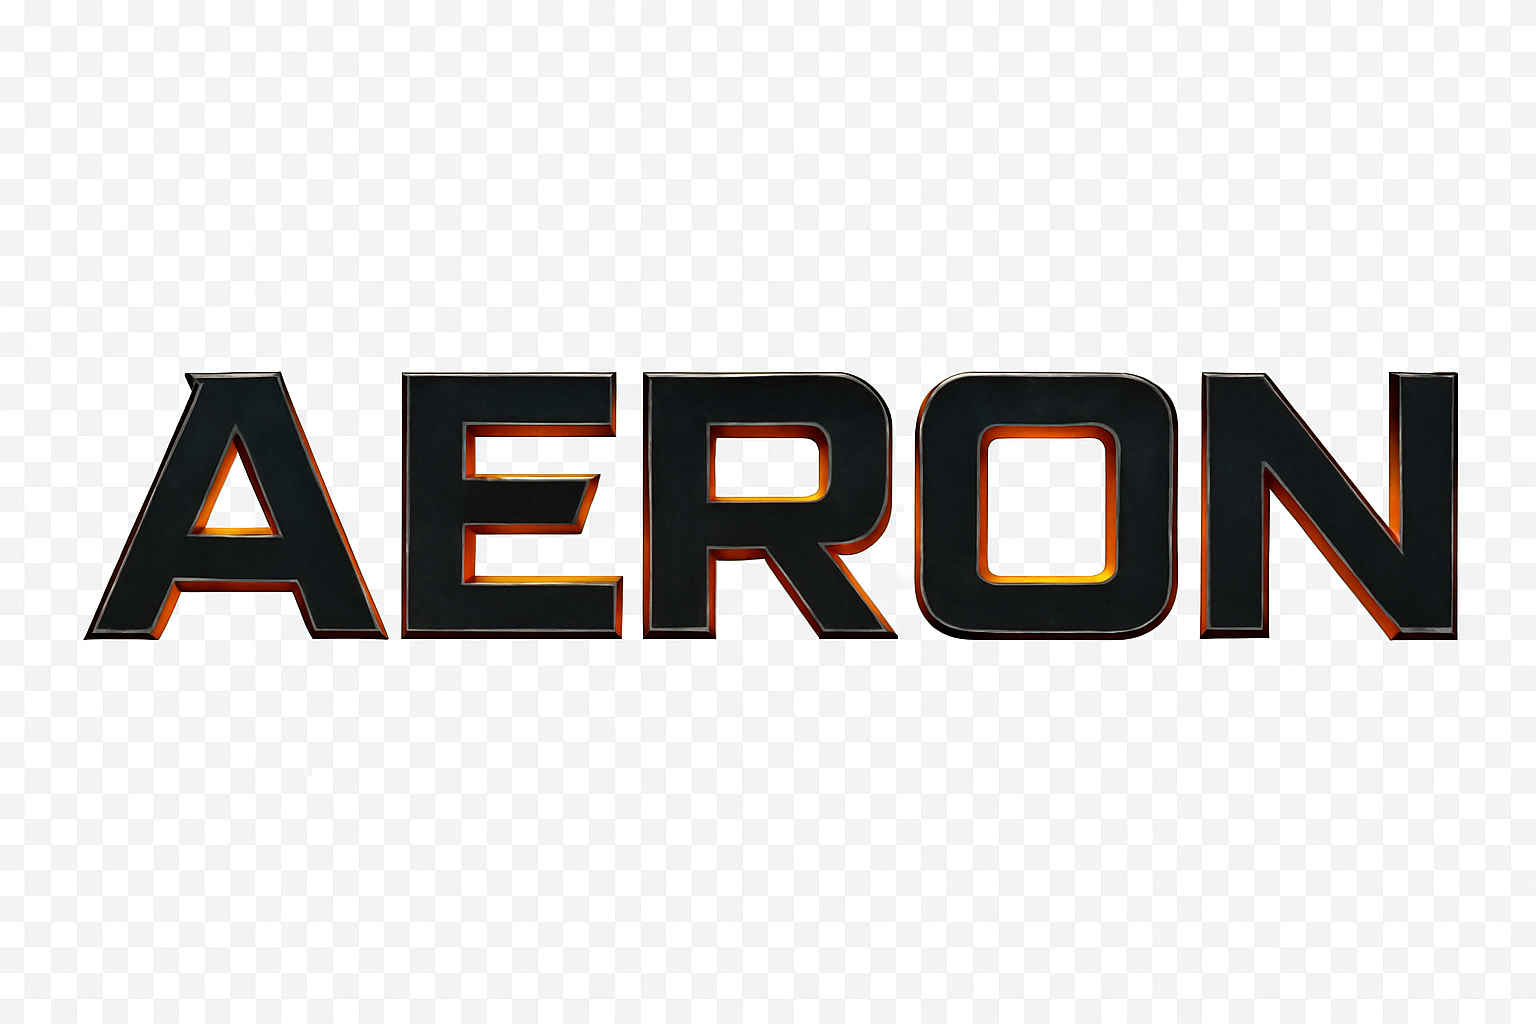
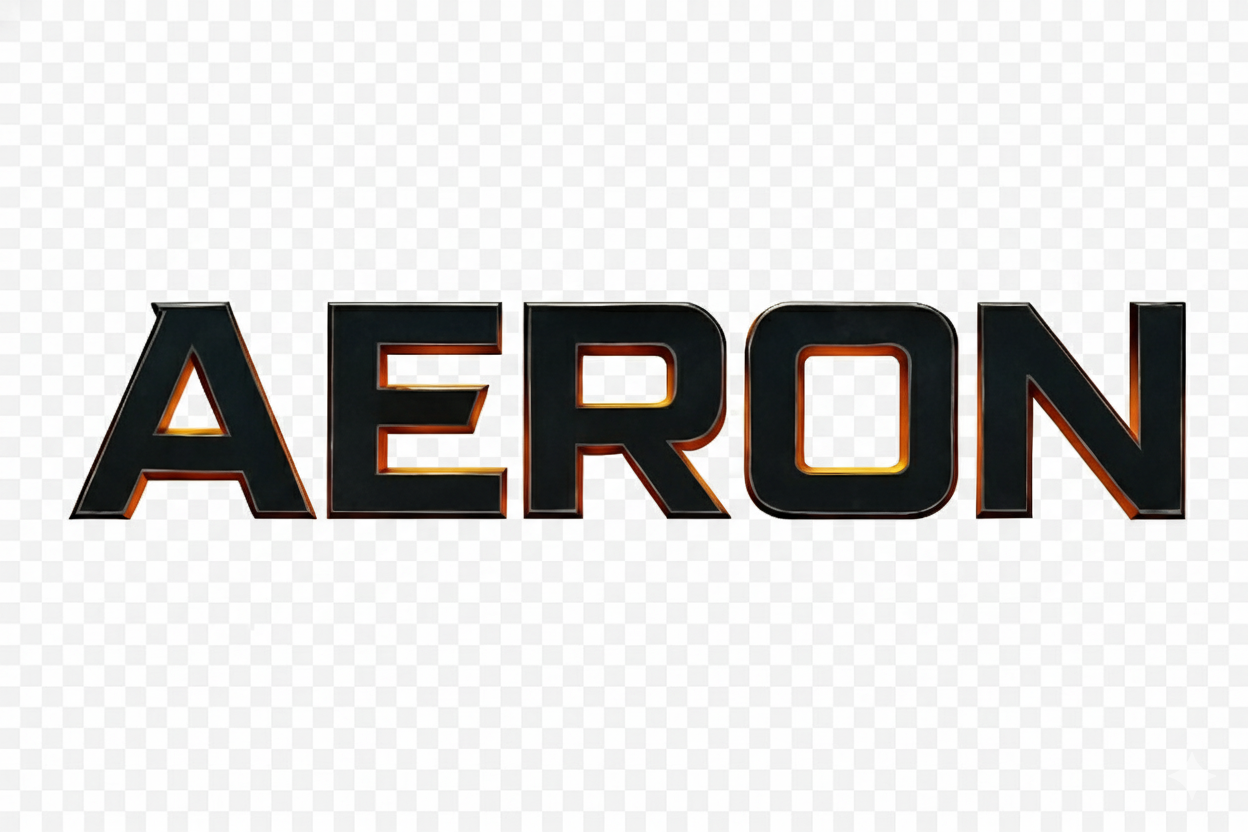
Update: Complete visual identity with Teko font and text shadows

diff --git a/index.html b/index.html
@@ -19,7 +19,7 @@
     <title>AERON | Genesis - Neuro-Trance | Música para Flow State e Performance</title>
     <link rel="preconnect" href="https://fonts.googleapis.com">
     <link rel="preconnect" href="https://fonts.gstatic.com" crossorigin>
-    <link href="https://fonts.googleapis.com/css2?family=Orbitron:wght@400;700;900&family=Rajdhani:wght@300;400;600;700&display=swap" rel="stylesheet">
+    <link href="https://fonts.googleapis.com/css2?family=Teko:wght@400;600;700&family=Rajdhani:wght@300;400;600;700&display=swap" rel="stylesheet">
     <style>
         * { margin: 0; padding: 0; box-sizing: border-box; }
         :root {
@@ -139,12 +139,14 @@
             50% { background-position: 100% 50%; }
         }
         .subtitle {
+            font-family: 'Teko', sans-serif;
             font-size: clamp(1.2rem, 3vw, 2rem);
             color: var(--gold);
             text-transform: uppercase;
             letter-spacing: 5px;
             margin-bottom: 20px;
             font-weight: 700;
+            text-shadow: 0 0 15px rgba(255, 215, 0, 0.5);
         }
         .hero-description {
             font-size: clamp(1rem, 2vw, 1.4rem);
@@ -177,15 +179,20 @@
             padding: 100px 20px;
         }
         .section-title {
-            font-family: 'Orbitron', sans-serif;
-            font-size: clamp(2.5rem, 6vw, 4rem);
+            font-family: 'Teko', sans-serif;
+            font-size: clamp(3rem, 8vw, 5.5rem);
             text-align: center;
             margin-bottom: 60px;
-            background: linear-gradient(90deg, var(--gold), var(--primary));
-            -webkit-background-clip: text;
-            -webkit-text-fill-color: transparent;
-            background-clip: text;
-            font-weight: 900;
+            color: #000;
+            text-transform: uppercase;
+            font-weight: 700;
+            letter-spacing: 3px;
+            text-shadow: 
+                -2px -2px 0 #FF6B35,
+                2px -2px 0 #FF6B35,
+                -2px 2px 0 #FF6B35,
+                2px 2px 0 #FF6B35,
+                0 0 20px rgba(255, 215, 0, 0.5);
         }
         
         /* ABOUT/BIO */
